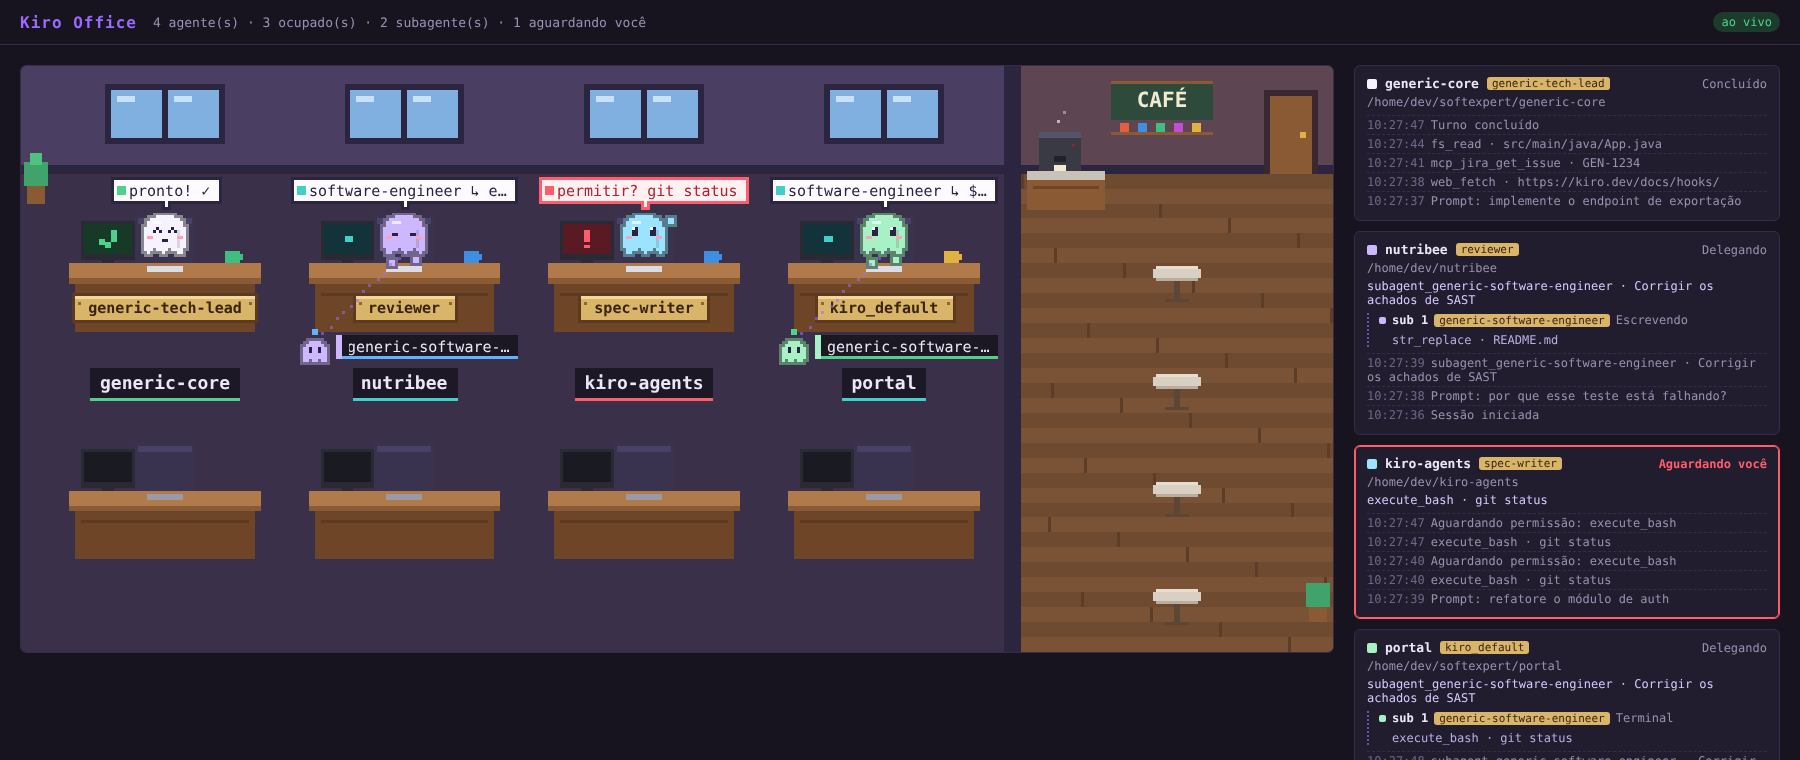
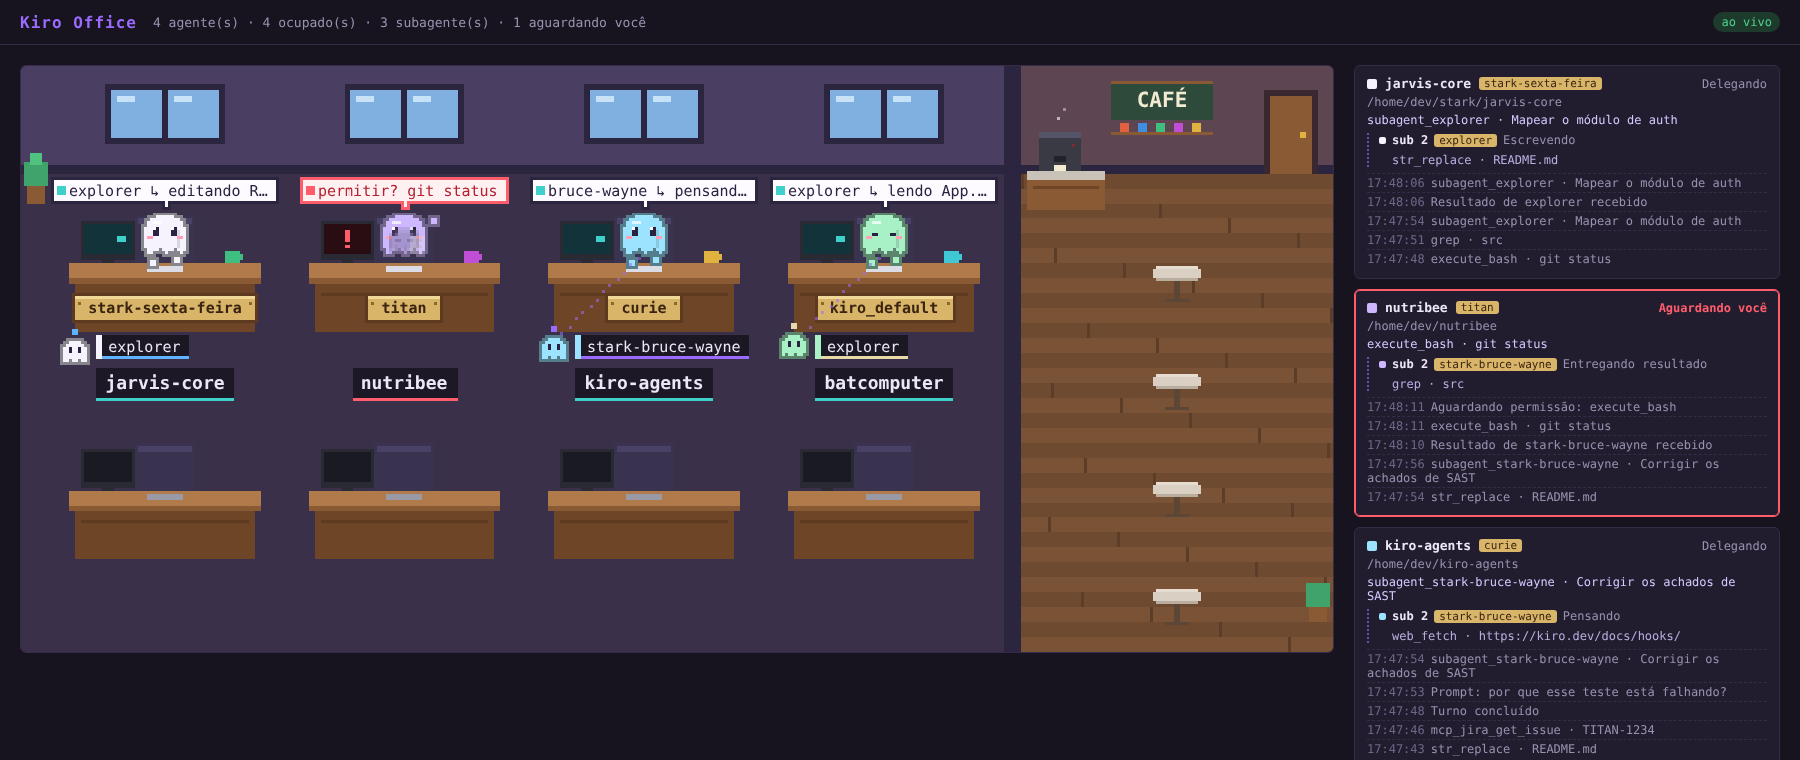
Troca nomes de exemplo por nomes fictícios; atualiza screenshot do README
Claude-Session: https://claude.ai/code/session_01U89Fh1HzvXcxV1jHt4DkMC

diff --git a/test/office.test.js b/test/office.test.js
@@ -259,13 +259,13 @@ test('subagente do Kiro CLI com o mesmo session_id do pai vira filhote virtual',
 
   ev('UserPromptSubmit', { prompt: 'siga o padrão do orphancleaner' });
   ev('PreToolUse', {
-    tool_name: 'subagent_generic-software-engineer',
+    tool_name: 'subagent_stark-bruce-wayne',
     tool_input: { explanation: 'Corrigir os 5 achados de SAST', prompt: 'Tarefa longa…' },
   });
   let kid = all().find((s) => s.parentId === sid);
   assert.ok(kid, 'filhote criado');
   assert.equal(kid.virtual, true);
-  assert.equal(kid.agent, 'generic-software-engineer');
+  assert.equal(kid.agent, 'stark-bruce-wayne');
   assert.equal(kid.detail, 'Corrigir os 5 achados de SAST');
   assert.equal(parent().state, 'delegate');
 
@@ -279,7 +279,7 @@ test('subagente do Kiro CLI com o mesmo session_id do pai vira filhote virtual',
   assert.equal(parent().state, 'delegate');
 
   // resultado volta ao pai
-  ev('PostToolUse', { tool_name: 'subagent_generic-software-engineer' });
+  ev('PostToolUse', { tool_name: 'subagent_stark-bruce-wayne' });
   kid = all().find((s) => s.parentId === sid);
   assert.equal(kid.state, 'leaving');
   assert.equal(kid.returning, true);
@@ -315,14 +315,14 @@ test('vários subagentes virtuais em paralelo ficam "trabalhando" e a permissão
 
 test('agente principal vem das variáveis KIRO_* ou de <id sem sess_>.json / .history', () => {
   const dir = fs.mkdtempSync(path.join(os.tmpdir(), 'kiro-sessions-'));
-  fs.writeFileSync(path.join(dir, 'abc.json'), JSON.stringify({ agent_name: 'generic-tech-lead' }));
+  fs.writeFileSync(path.join(dir, 'abc.json'), JSON.stringify({ agent_name: 'stark-sexta-feira' }));
   fs.writeFileSync(path.join(dir, 'sess_hist.history'), '{"type":"x"}\n{"agent":{"name":"reviewer"}}\n');
   const store = new SessionStore({ sessionsDir: dir });
   store.apply({ hook_event_name: 'PreToolUse', session_id: 'sess_abc', cwd: '/a', tool_name: 'fs_read' });
   store.apply({ hook_event_name: 'PreToolUse', session_id: 'sess_hist', cwd: '/b', tool_name: 'fs_read' });
   store.apply({ hook_event_name: 'PreToolUse', session_id: 'sess_env', cwd: '/c', tool_name: 'fs_read', _env: { KIRO_AGENT_NAME: 'dev-agent' } });
   const agentOf = (id) => store.snapshot().sessions.find((s) => s.id === id).agent;
-  assert.equal(agentOf('sess_abc'), 'generic-tech-lead');
+  assert.equal(agentOf('sess_abc'), 'stark-sexta-feira');
   assert.equal(agentOf('sess_hist'), 'reviewer');
   assert.equal(agentOf('sess_env'), 'dev-agent');
 });
@@ -345,13 +345,13 @@ test('usa a description do execute_bash como nota legível', () => {
 
 test('agente em session_state.agent_name (formato real do Kiro CLI) e null aparece como null', () => {
   const dir = fs.mkdtempSync(path.join(os.tmpdir(), 'kiro-sessions-'));
-  fs.writeFileSync(path.join(dir, 'u1.json'), JSON.stringify({ session_id: 'u1', session_state: { agent_name: 'generic-tech-lead', goal: null } }));
-  assert.equal(findAgentName(JSON.parse(fs.readFileSync(path.join(dir, 'u1.json'), 'utf8'))), 'generic-tech-lead');
+  fs.writeFileSync(path.join(dir, 'u1.json'), JSON.stringify({ session_id: 'u1', session_state: { agent_name: 'stark-sexta-feira', goal: null } }));
+  assert.equal(findAgentName(JSON.parse(fs.readFileSync(path.join(dir, 'u1.json'), 'utf8'))), 'stark-sexta-feira');
   const store = new SessionStore({ sessionsDir: dir });
   store.apply({ hook_event_name: 'PreToolUse', session_id: 'u1', cwd: '/x', tool_name: 'read_file' });
   const keys = store.debug().sessions[0].sessionFileKeys;
   assert.deepEqual(keys.find((k) => k.key === 'session_state.goal'), { key: 'session_state.goal', type: 'null' });
-  assert.equal(store.snapshot().sessions[0].agent, 'generic-tech-lead');
+  assert.equal(store.snapshot().sessions[0].agent, 'stark-sexta-feira');
 });
 
 test('KIRO_AGENT_ENGINE não é o nome do agente; --agent e o agente padrão das configurações são', () => {
@@ -365,10 +365,10 @@ test('KIRO_AGENT_ENGINE não é o nome do agente; --agent e o agente padrão das
   store.apply({ hook_event_name: 'PreToolUse', session_id: 'a', cwd: '/x', tool_name: 'read_file', _env: { KIRO_AGENT_ENGINE: 'kas' } });
   assert.equal(agentOf('a').agent, null);
 
-  fs.writeFileSync(path.join(root, 'settings', 'cli.json'), JSON.stringify({ 'chat.defaultAgent': 'generic-tech-lead' }));
-  assert.equal(readDefaultAgent(path.join(root, 'settings', 'cli.json')), 'generic-tech-lead');
+  fs.writeFileSync(path.join(root, 'settings', 'cli.json'), JSON.stringify({ 'chat.defaultAgent': 'stark-sexta-feira' }));
+  assert.equal(readDefaultAgent(path.join(root, 'settings', 'cli.json')), 'stark-sexta-feira');
   store.apply({ hook_event_name: 'PreToolUse', session_id: 'b', cwd: '/x', tool_name: 'read_file' });
-  assert.equal(agentOf('b').agent, 'generic-tech-lead');
+  assert.equal(agentOf('b').agent, 'stark-sexta-feira');
   assert.match(agentOf('b').agentSource, /padrão/);
 
   // --agent na linha de comando tem prioridade e corrige o padrão

diff --git a/scripts/demo.js b/scripts/demo.js
@@ -4,7 +4,7 @@
 const port = Number(process.env.KIRO_OFFICE_PORT) || 4317;
 const url = `http://127.0.0.1:${port}/api/event`;
 
-const PROJECTS = ['/home/dev/softexpert/generic-core', '/home/dev/nutribee', '/home/dev/kiro-agents', '/home/dev/softexpert/portal'];
+const PROJECTS = ['/home/dev/stark/jarvis-core', '/home/dev/nutribee', '/home/dev/kiro-agents', '/home/dev/wayne/batcomputer'];
 const TOOLS = [
   ['fs_read', { path: 'src/main/java/App.java' }],
   ['grep', { pattern: 'TODO', path: 'src' }],
@@ -13,11 +13,11 @@ const TOOLS = [
   ['execute_bash', { command: 'npm test' }],
   ['execute_bash', { command: 'git status' }],
   ['web_fetch', { url: 'https://kiro.dev/docs/hooks/' }],
-  ['mcp_jira_get_issue', { query: 'GEN-1234' }],
-  ['subagent_generic-software-engineer', { explanation: 'Corrigir os achados de SAST' }],
+  ['mcp_jira_get_issue', { query: 'TITAN-1234' }],
+  ['subagent_stark-bruce-wayne', { explanation: 'Corrigir os achados de SAST' }],
   ['subagent_explorer', { explanation: 'Mapear o módulo de auth' }],
 ];
-const AGENTS = ['generic-tech-lead', 'reviewer', 'spec-writer', 'kiro_default'];
+const AGENTS = ['stark-sexta-feira', 'titan', 'curie', 'kiro_default'];
 const PROMPTS = ['implemente o endpoint de exportação', 'por que esse teste está falhando?', 'refatore o módulo de auth', 'escreva a steering de testes'];
 
 const sleep = (ms) => new Promise((r) => setTimeout(r, ms));

diff --git a/public/office.js b/public/office.js
@@ -473,7 +473,7 @@
 
   const base = (p) => String(p).split(/[\\/]/).filter(Boolean).pop() || String(p);
 
-  /** "generic-security-reviewer" → "security-reviewer" (o nome completo fica na etiqueta e no painel). */
+  /** "stark-bruce-wayne" → "bruce-wayne" (o nome completo fica na etiqueta e no painel). */
   const shortAgent = (name) => {
     const parts = String(name).split('-');
     return parts.length > 2 ? parts.slice(1).join('-') : String(name);
@@ -503,7 +503,7 @@
       case 'delegate': {
         const open = kidsOf(s.id).filter((k) => k.state !== 'leaving');
         if (open.length === 1) {
-          // nome curto do subagente: sem o prefixo comum do time (ex.: "generic-")
+          // nome curto do subagente: sem o prefixo comum do time (ex.: "stark-")
           const who = shortAgent(open[0].agent || open[0].name);
           const kidText = actionText(open[0], t);
           return kidText ? `${who} ↳ ${kidText}` : `delegando → ${who}`;

diff --git a/README.md b/README.md
@@ -32,8 +32,8 @@ Os **balões de fala** mostram a ação atual: `lendo App.java`, `editando Butto
 ### Nomes
 
 - O **rótulo abaixo da mesa** é a pasta do projeto: o último trecho do `cwd`, com `#2`, `#3` se houver mais de uma sessão na mesma pasta.
-- A **plaquinha dourada na mesa** é o **agente** do Kiro (como `generic-tech-lead`). O Kiro CLI não manda esse nome nos hooks, então o servidor procura, nesta ordem:
-  1. `--agent <nome>` na linha de comando do `kiro-cli` (o hook sobe a árvore de processos para achar). É a fonte mais confiável; abra com `kiro-cli chat --agent generic-tech-lead`.
+- A **plaquinha dourada na mesa** é o **agente** do Kiro (como `stark-sexta-feira`). O Kiro CLI não manda esse nome nos hooks, então o servidor procura, nesta ordem:
+  1. `--agent <nome>` na linha de comando do `kiro-cli` (o hook sobe a árvore de processos para achar). É a fonte mais confiável; abra com `kiro-cli chat --agent stark-sexta-feira`.
   2. Um campo de agente no payload, ou uma variável de ambiente `*AGENT_NAME`.
   3. `session_state.agent_name` no arquivo de sessão (`~/.kiro/sessions/cli/`).
   4. O agente padrão, em `"chat.defaultAgent"` de `~/.kiro/settings/cli.json`.
@@ -42,13 +42,13 @@ Os **balões de fala** mostram a ação atual: `lendo App.java`, `editando Butto
 
 ### Subagentes
 
-No Kiro CLI, um subagente é chamado por uma ferramenta `subagent_<nome-do-agente>` (por exemplo `subagent_generic-software-engineer`) e **usa o mesmo `session_id` do pai**. Por isso o Kiro Office trata assim:
+No Kiro CLI, um subagente é chamado por uma ferramenta `subagent_<nome-do-agente>` (por exemplo `subagent_stark-bruce-wayne`) e **usa o mesmo `session_id` do pai**. Por isso o Kiro Office trata assim:
 
 - No `PreToolUse` de `subagent_*`, nasce um **filhote** da cor do pai, com o nome do agente (vindo do nome da ferramenta). Ele sai da mesa do pai junto com um aviãozinho de papel.
 - Enquanto o subagente está aberto, as ações que chegam nessa sessão são atribuídas ao filhote, não ao pai. O pai fica "Delegando", e o balão dele mostra a ação do filho (`↳ $ git status`).
 - No `PostToolUse` da mesma ferramenta `subagent_*`, o filhote voa até o pai com um papel, entrega o resultado e some.
 - Com **vários subagentes em paralelo** não dá para saber de qual é cada ação: os filhotes ficam "Trabalhando", as ações vão para o log do pai e pedidos de permissão aparecem no pai.
-- O nome do subagente aparece numa **etiqueta ao lado do filhote** e no balão do pai (`security-reviewer ↳ $ …`).
+- O nome do subagente aparece numa **etiqueta ao lado do filhote** e no balão do pai (`bruce-wayne ↳ $ …`).
 - Se o Kiro algum dia mandar subagentes com `session_id` próprio, o servidor também os vincula ao pai: por um campo de pai no payload, pelo arquivo de sessão ou por correlação com uma delegação aberta **no mesmo diretório** (só para ferramentas genéricas de delegação; uma sessão nova durante um `subagent_*` é sempre uma sessão independente).
 
 Os agentes não conversam entre si: o pai manda a tarefa e cada subagente devolve o resultado.
